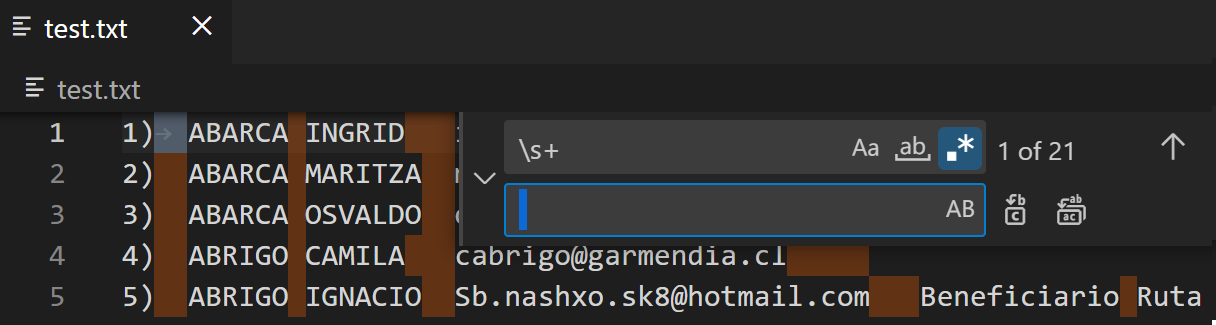
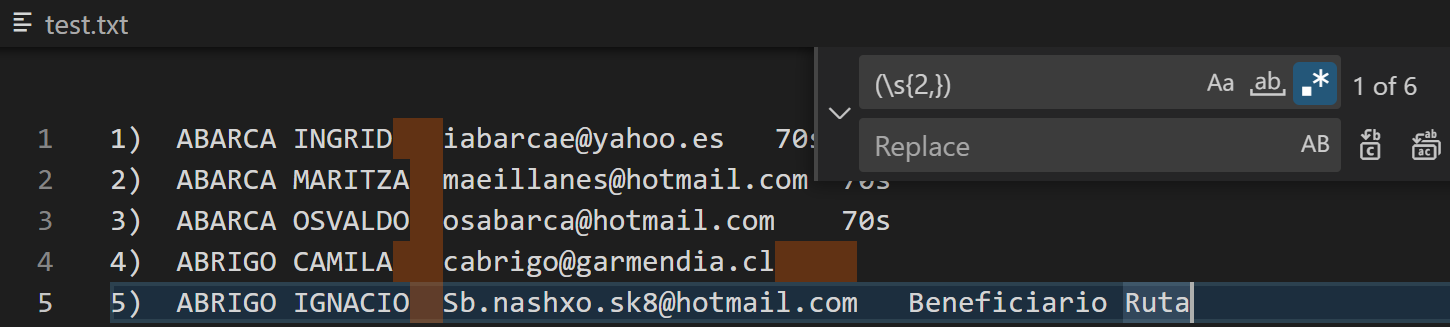
Add files

diff --git a/1. Regexp/ejercicio-entregable/entregable.md b/1. Regexp/ejercicio-entregable/entregable.md
@@ -16,6 +16,8 @@ Basándote en el fichero original, haz que todos los elementos tengan un solo es
 ![Error, la imagen no se ha podido cargar](https://github.com/DavidBernalGonzalez/SolucionesEjerciciosBootcampJava/blob/main/1.%20Regexp/ejercicio-entregable/Exercice02.png "Enunciado ejercicio 2")
 
 **Solución ejercicio 2:**
-![Error, la imagen no se ha podido cargar](https://github.com/DavidBernalGonzalez/SolucionesEjerciciosBootcampJava/blob/main/1.%20Regexp/ejercicio-entregable/Solucion2.png "Solución ejercicio 1")
-![Error, la imagen no se ha podido cargar](https://github.com/DavidBernalGonzalez/SolucionesEjerciciosBootcampJava/blob/main/1.%20Regexp/ejercicio-entregable/Solucion2-2.png "Solución ejercicio 1")  
-![Error, la imagen no se ha podido cargar](https://github.com/DavidBernalGonzalez/SolucionesEjerciciosBootcampJava/blob/main/1.%20Regexp/ejercicio-entregable/Solucion2-3.png "Solución ejercicio 1")  
+Primeramente, seleccionamos las casuisticas que tengan dos o más espacios.
+![Error, la imagen no se ha podido cargar](https://github.com/DavidBernalGonzalez/SolucionesEjerciciosBootcampJava/blob/main/1.%20Regexp/ejercicio-entregable/Solucion2.png "Solución ejercicio 2")
+![Error, la imagen no se ha podido cargar](https://github.com/DavidBernalGonzalez/SolucionesEjerciciosBootcampJava/blob/main/1.%20Regexp/ejercicio-entregable/Solucion2-2.png "Solución ejercicio 2")  
+Si ahora volvemos a revisar los espacios, vemos que solamente tenemos uno en todas las posiciones.
+![Error, la imagen no se ha podido cargar](https://github.com/DavidBernalGonzalez/SolucionesEjerciciosBootcampJava/blob/main/1.%20Regexp/ejercicio-entregable/Solucion2-3.png "Solución ejercicio 2")  
